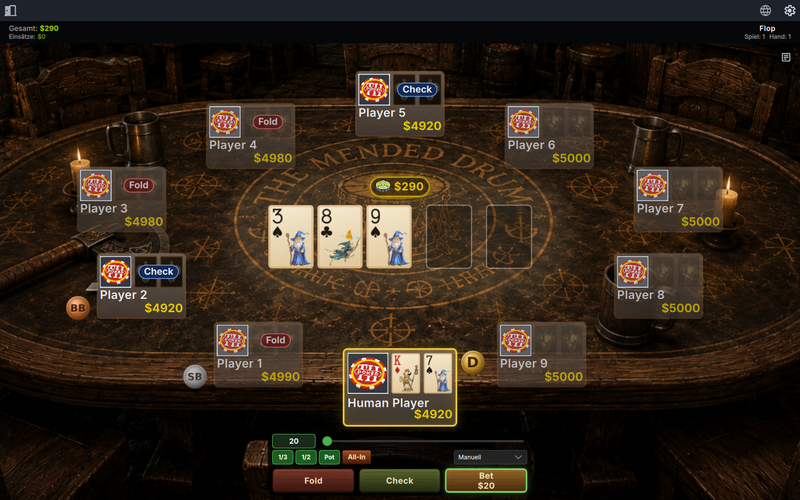
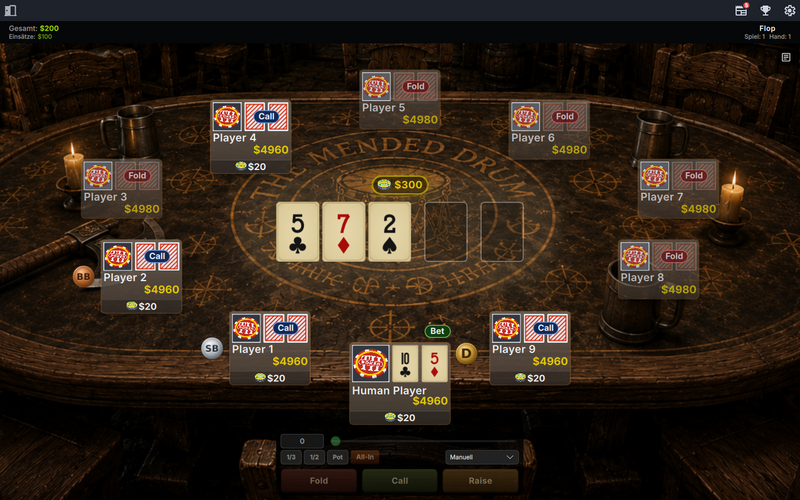
Table previews regenerated from upstream eee31d4 (2.1.8-web.5)
All 21 built-in table packs take the preview.png / preview_portrait.png
re-rendered upstream (bets inside the player boxes, inset seat style).
Thirteen packs had no portrait preview and the default pack no preview at
all: TABLES now carries preview + previewPortrait for every entry, so the
picker shows the right image in both orientations. Green Casino and the
default table keep their felts (byte-identical to upstream table.png), so
the QML renders apply to them as well - replacing the low-res felt crops.

Version web.4 -> web.5; CHANGELOG.md and ChangeLog-web entries.

Validated: node --check, JSON parse, every preview path resolved on disk,
test-boot, test-hud-style.

diff --git a/public/pokerth.js b/public/pokerth.js
@@ -11018,7 +11018,7 @@ window.App = App;
   }, { passive:false });
 })();
 
-window.BUILD_VERSION='2.1.8-web.4'; try{ var b=document.getElementById('cf-build'); if(b) b.textContent='\u00b7 build '+window.BUILD_VERSION; }catch(e){} })();
+window.BUILD_VERSION='2.1.8-web.5'; try{ var b=document.getElementById('cf-build'); if(b) b.textContent='\u00b7 build '+window.BUILD_VERSION; }catch(e){} })();
 
 /* theme-color du navigateur : suit le thème actif (Android, Safari, iOS
    standalone récent). Lit --theme-color (défini par thème dans la CSS) et met

diff --git a/public/sw.js b/public/sw.js
@@ -23,7 +23,7 @@
  *                 Cross-origin requests and WS upgrades are left untouched.
  *                 (Fonts are now self-hosted and handled by SWR above.)
  */
-const CACHE_VERSION = 'pokerth-v2.1.8-web.4';
+const CACHE_VERSION = 'pokerth-v2.1.8-web.5';
 // Share Target payload park (see handleShareTarget). Kept OUT of CACHE_VERSION
 // so an update sweep never eats a share that arrived seconds earlier.
 const SHARE_CACHE = 'pokerth-share';

diff --git a/CHANGELOG.md b/CHANGELOG.md
@@ -41,6 +41,12 @@ highlights below.
   light-toned pack, so `TABLES` gains an optional `btnFg` (dark button
   labels, as the QML reference render shows) instead of the white default.
   Credit: PokerTH Development Team, AGPL-3.0.
+- **Table previews regenerated** (`web.5`). All 21 built-in packs take the
+  `preview.png` / `preview_portrait.png` re-rendered upstream in `eee31d4`
+  (bets inside the player boxes, `inset` seat style). Thirteen packs had no
+  portrait preview and the default pack had no preview at all; `TABLES` now
+  carries both for every entry. Felts are byte-identical upstream/web for
+  Green Casino and the default table, so their QML renders apply as well.
 
 ## 2.1.7-web line (2026)
 
